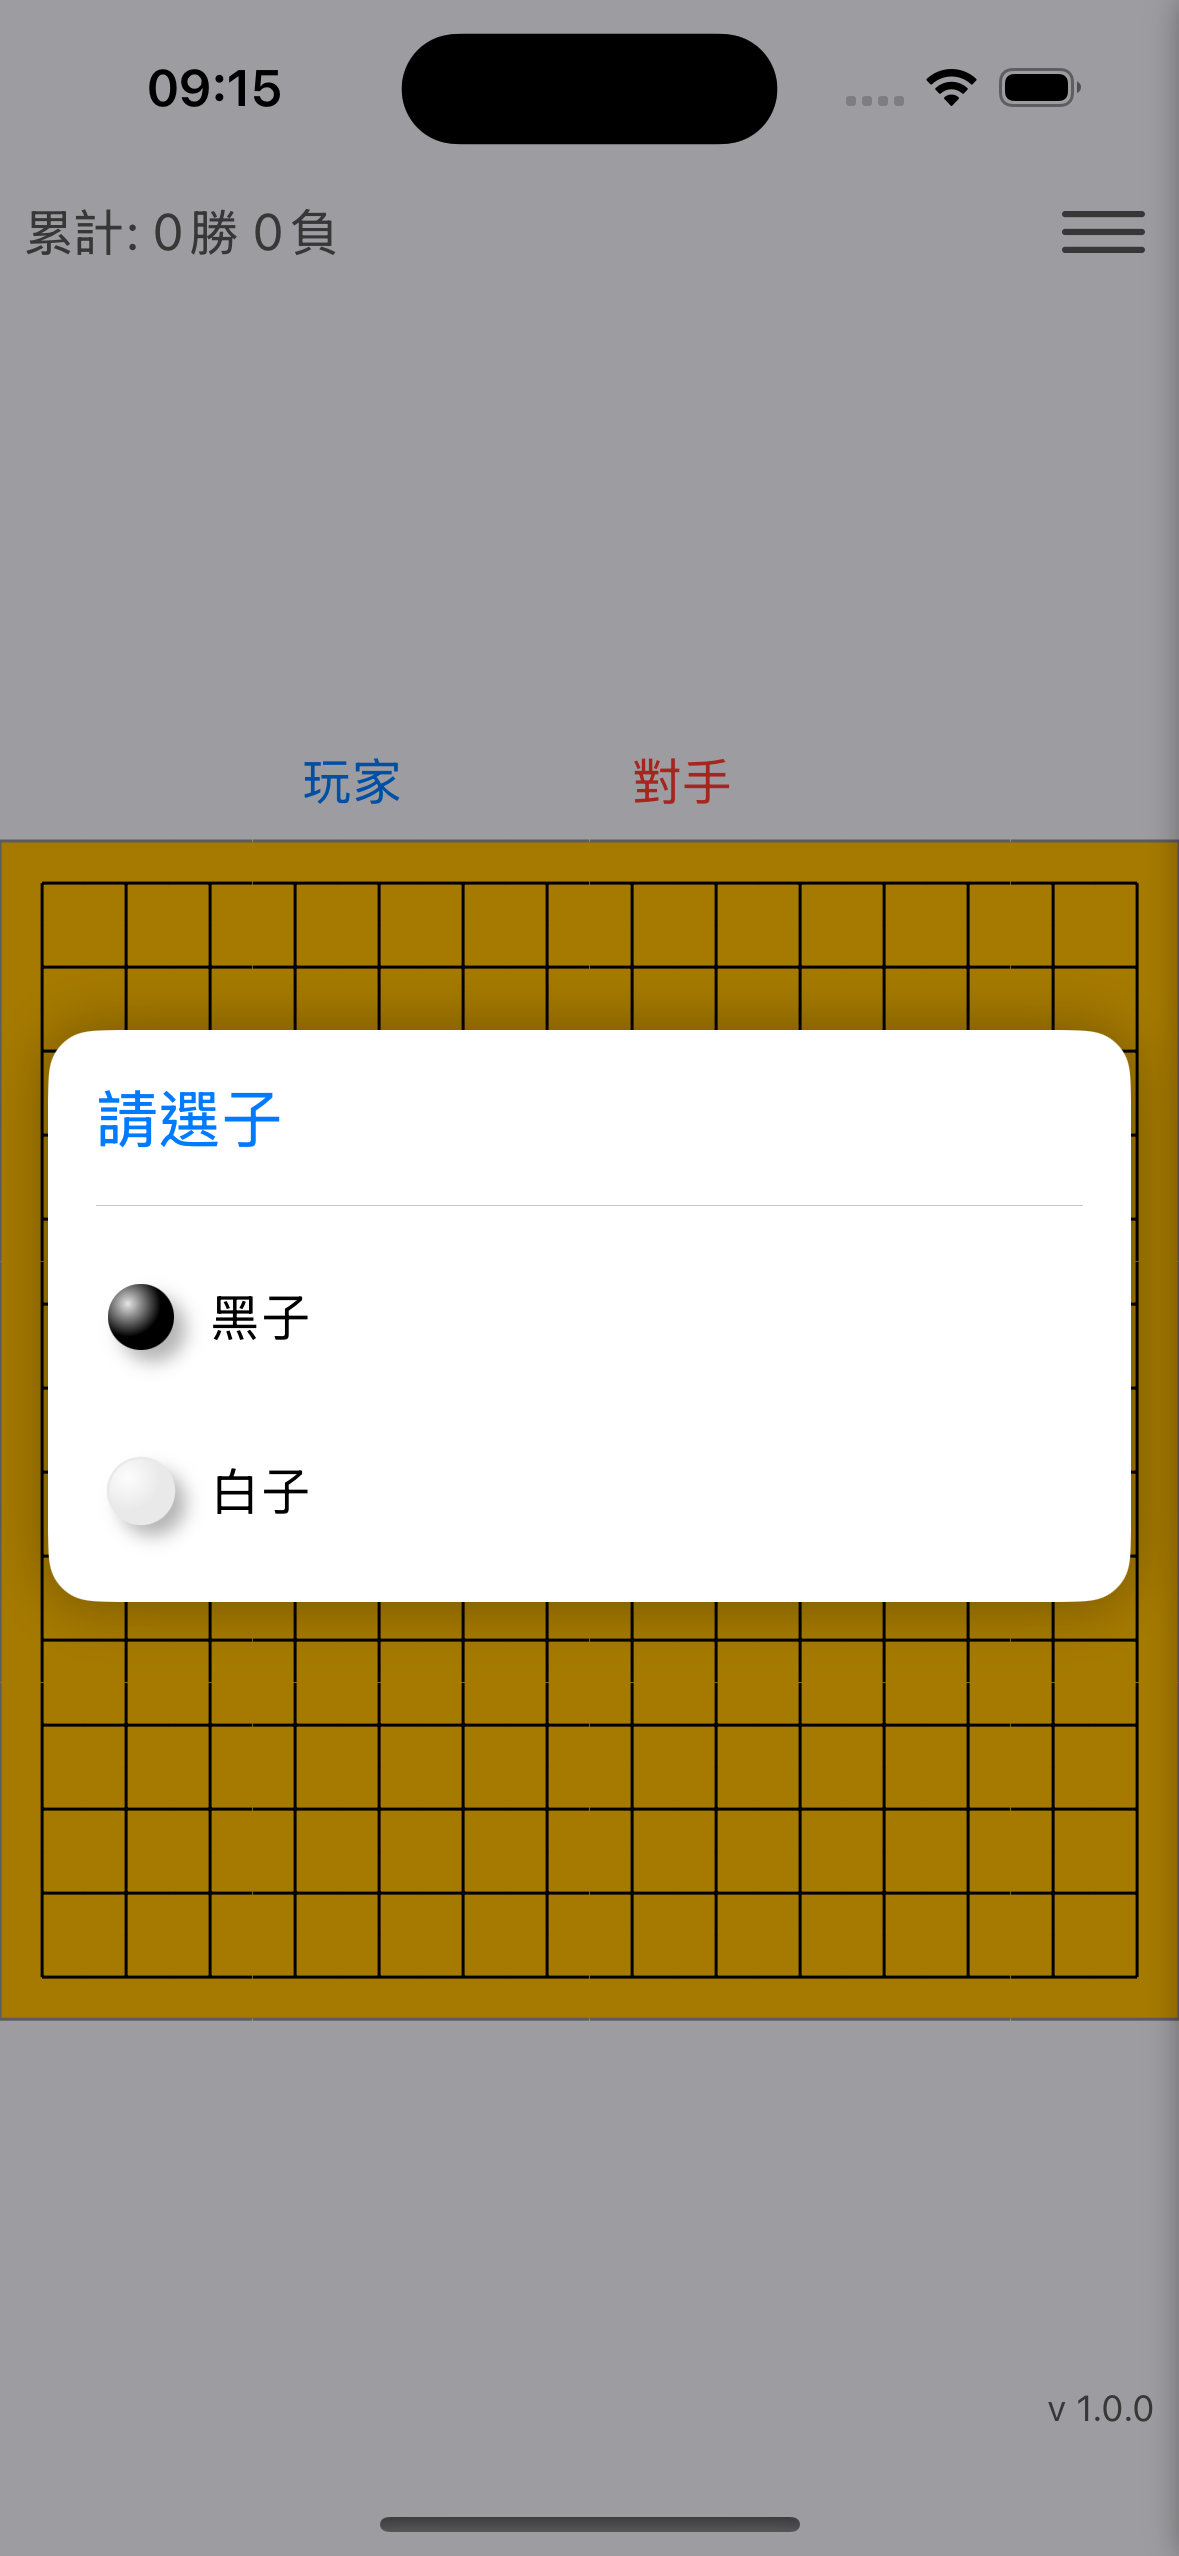
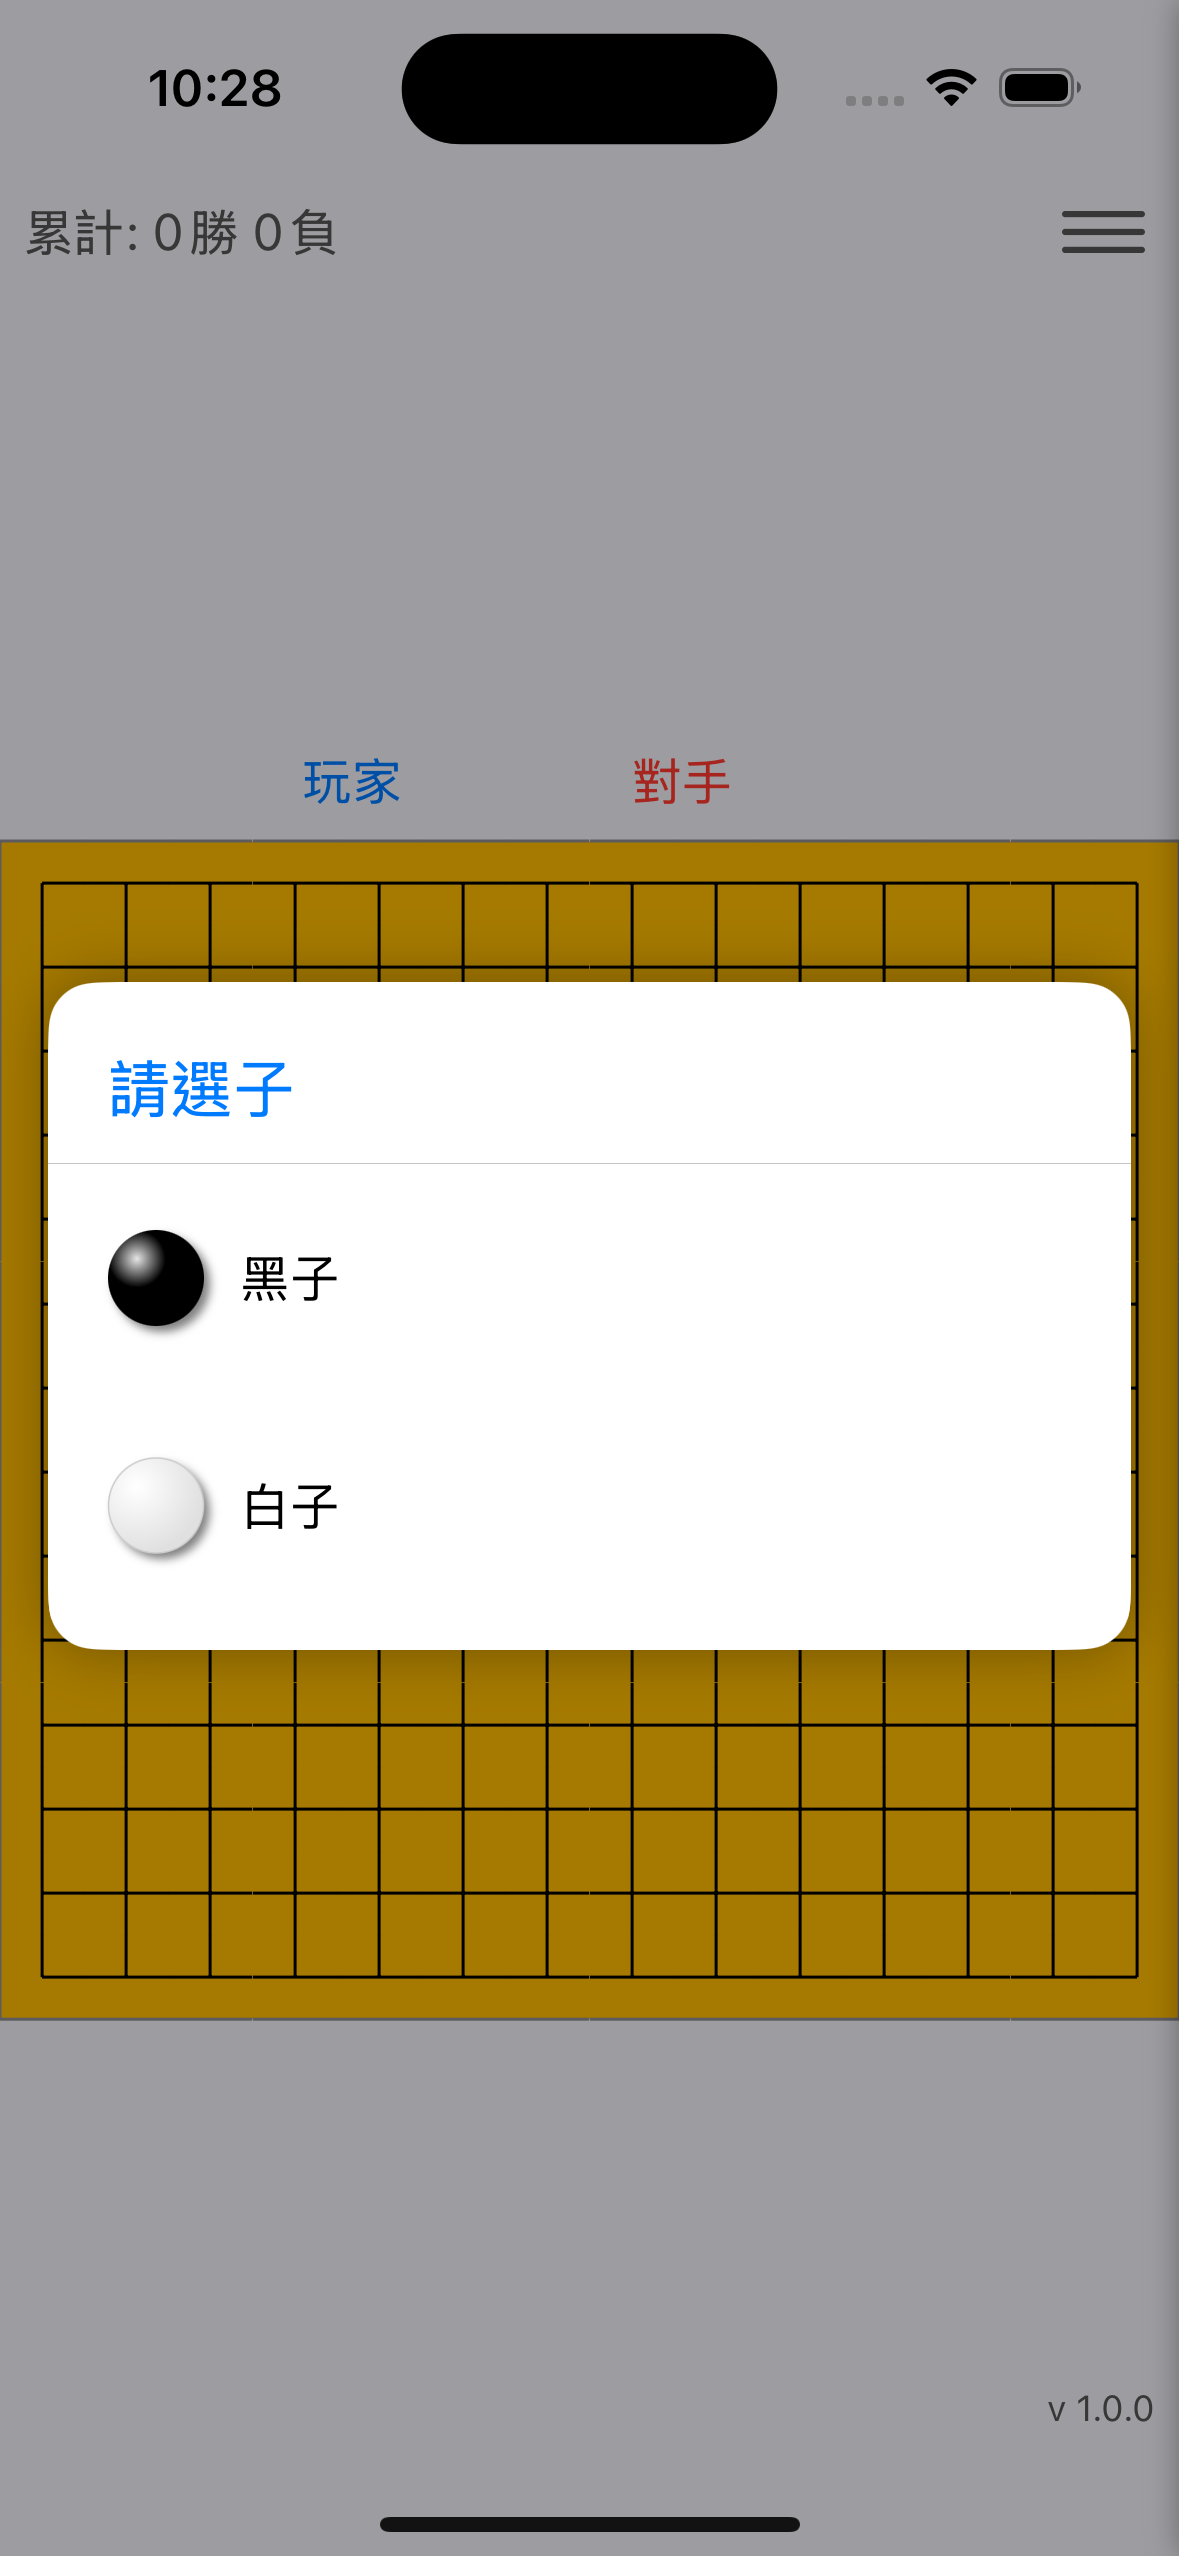
調整 ChessView 白子的立體處理

diff --git a/ChessSelectionDialog.swift b/ChessSelectionDialog.swift
@@ -9,70 +9,21 @@
 import SwiftUI
 
 
-enum ChessSelectionType: String, CaseIterable, Identifiable {
-    case none
-    
-    case black = "BLACK_CHESS"
-    case white = "WHITE_CHESS"
-    
-    var id: String { self.rawValue }
-    var name: String { self.rawValue.localized }
-    
-    var chessColor: Color {
-        switch self {
-            case .none:
-                return Color.clear
-            
-            case .black:
-                return Color("color_chess_black")
-            
-            case .white:
-                return Color("color_chess_white")
-        }
-    }
-    
-    var borderColor: Color {
-        switch self {
-            case .none:
-                return Color.clear
-            
-            case .black:
-                return Color("color_border_black")
-            
-            case .white:
-                return Color("color_border_white")
-        }
-    }
-    
-    var theOther: ChessSelectionType
-    {
-        switch self {
-            case .none:
-                return self
-            
-            case .black:
-                return ChessSelectionType.white
-            
-            case .white:
-                return ChessSelectionType.black
-        }
-    }
-}
-
-
 struct ChessSelectionDialog: View {
     let onSelected: (_ type: ChessSelectionType) -> Void
     
     var body: some View {
         Color.black.opacity(0.35)
             .edgesIgnoringSafeArea(.all)
-        VStack(spacing: 16) {
+        VStack(spacing: 0) {
             HStack {
                 Text("CHESS_SELECTION".localized)
                     .font(.title2)
                     .foregroundColor(.blue)
                 Spacer()
             }
+            .padding(.vertical, 12)
+            .padding(.horizontal, 20)
             
             Divider()
             
@@ -86,21 +37,36 @@ struct ChessSelectionDialog: View {
                     } label: {
                         HStack {
                             ChessView(chessType: type)
-                                .frame(width: 30, height: 30)
+                                .frame(width: 40, height: 40)
                             Text(type.name)
                                 .foregroundColor(.primary)
                             Spacer()
                         }
                         .frame(maxWidth: .infinity, alignment: .leading)
-                        .padding(.vertical, 6)
+                        .padding(.vertical, 2)
                     }
+                    .buttonStyle(HighlightButtonStyle())
                 }
             }
         }
-        .padding()
+        .padding(.vertical, 10)
         .background(.white)
         .cornerRadius(16)
         .shadow(radius: 10)
         .padding()
+    }
+}
+
+
+fileprivate struct HighlightButtonStyle: ButtonStyle {
+    let normalColor: Color = .white
+    let highlightColor: Color = .systemGray5
+
+    func makeBody(configuration: Configuration) -> some View {
+        configuration.label
+            .padding()
+            .background(configuration.isPressed ? highlightColor : normalColor)
+            .foregroundColor(.white)
+            .animation(.easeInOut(duration: 0.2), value: configuration.isPressed)
     }
 }

diff --git a/ViewModel/ChessSelectionType.swift b/ViewModel/ChessSelectionType.swift
@@ -1,0 +1,60 @@
+//
+//  ChessSelectionType.swift
+//  Gobang
+//
+//  Created by xattacker.tao on 2025/7/29.
+//  Copyright © 2025 Xattacker. All rights reserved.
+//
+
+import SwiftUI
+
+
+enum ChessSelectionType: String, CaseIterable, Identifiable {
+    case none
+    
+    case black = "BLACK_CHESS"
+    case white = "WHITE_CHESS"
+    
+    var id: String { self.rawValue }
+    var name: String { self.rawValue.localized }
+    
+    var chessColor: Color {
+        switch self {
+            case .none:
+                return Color.clear
+            
+            case .black:
+                return Color("color_chess_black")
+            
+            case .white:
+                return Color("color_chess_white")
+        }
+    }
+    
+    var borderColor: Color {
+        switch self {
+            case .none:
+                return Color.clear
+            
+            case .black:
+                return Color("color_border_black")
+            
+            case .white:
+                return Color("color_border_white")
+        }
+    }
+    
+    var theOther: ChessSelectionType
+    {
+        switch self {
+            case .none:
+                return self
+            
+            case .black:
+                return ChessSelectionType.white
+            
+            case .white:
+                return ChessSelectionType.black
+        }
+    }
+}

diff --git a/View/ChessView.swift b/View/ChessView.swift
@@ -37,7 +37,7 @@ struct ChessView: View {
                                                                 Color.white :
                                                                 Color.white.opacity(0.9),
                                                                 .clear]),
-                                    center: .init(x: 0.3, y: 0.3), // 模擬 cx - radius * 0.4, cy - radius * 0.4
+                                    center: .init(x: 0.3, y: 0.3),
                                     startRadius: 0,
                                     endRadius: chessType == .white ? radius * 1.4 : radius * 0.6
                                 )
@@ -49,7 +49,7 @@ struct ChessView: View {
 
                     // 外框
                     Circle()
-                        .stroke(chessType.borderColor, lineWidth: 0.8)
+                        .stroke(chessType.borderColor, lineWidth: 0.5)
                         .frame(width: radius * 2, height: radius * 2)
                 }
             }
